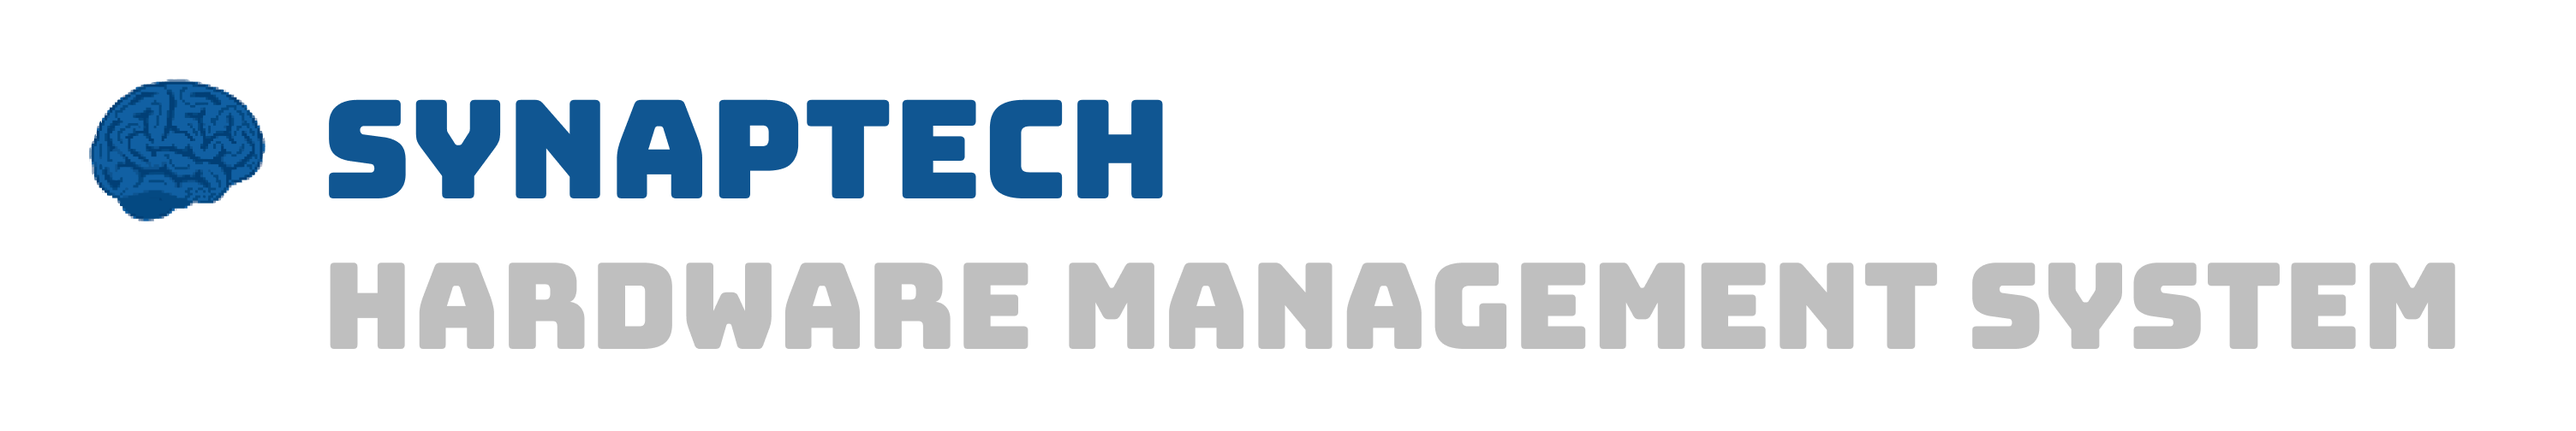
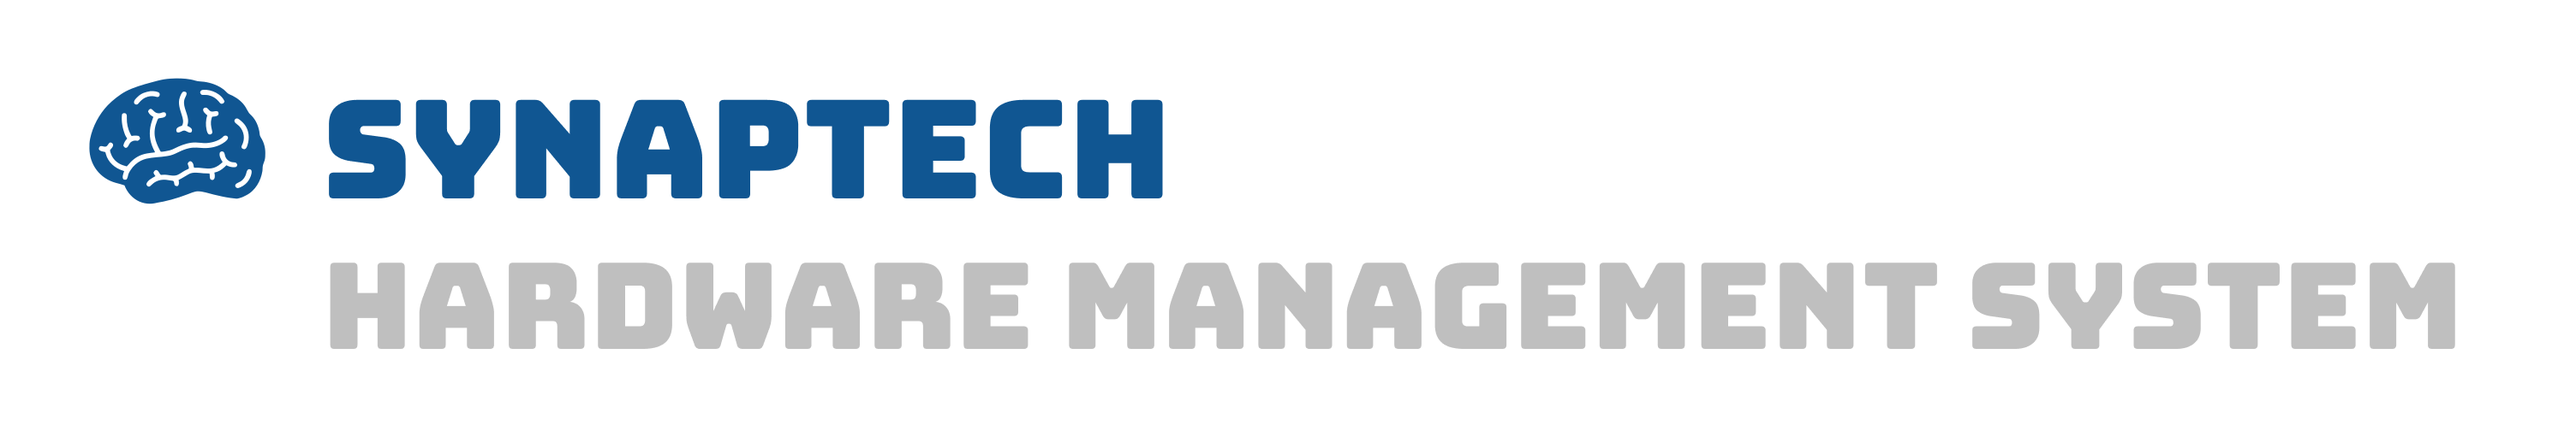
add higher res brain img

Changed region(s): [[0.0312, 0.1786, 0.125, 0.506]]

diff --git a/src/pages/WelcomePage.tsx b/src/pages/WelcomePage.tsx
@@ -3,7 +3,7 @@ import { useAuth } from '../context/AuthContext'
 import ConfirmationModal from '../components/ConfirmationModal'
 import AccountErrorModal from '../components/AccountErrorModal'
 import HardwareCarousel from '../components/HardwareCarousel'
-import brainLogo from '../assets/synaptech-brain.png'
+import brainLogo from '../assets/synaptech-brain.svg'
 import googleIcon from '../assets/google-icon.png'
 import starGlow from '../assets/welcome-star-bg.svg'
 import styles from './WelcomePage.module.css'

diff --git a/src/lib/loanAgreementPdf.ts b/src/lib/loanAgreementPdf.ts
@@ -20,6 +20,8 @@ export function preloadAgreementPdfLib(): void {
     // Retried on use; the failure is reported there.
   })
 }
+// A PNG rasterised from synaptech-brain.svg, because jsPDF's addImage can't
+// embed SVG. Regenerate it from the SVG if the logo changes.
 import brainLogo from '../assets/synaptech-brain.png'
 import bungeeRegularFont from '../assets/fonts/Bungee-Regular.ttf?url'
 import rubikRegularFont from '../assets/fonts/Rubik-Regular.ttf?url'

diff --git a/src/components/admin-dashboard/labels/QrDocLabel.tsx b/src/components/admin-dashboard/labels/QrDocLabel.tsx
@@ -1,4 +1,4 @@
-import brainLogo from '../../../assets/synaptech-brain.png'
+import brainLogo from '../../../assets/synaptech-brain.svg'
 import qrItemDocs from '../../../assets/qr-item-docs.png'
 import qrCheckoutPolicy from '../../../assets/qr-checkout-policy.png'
 import styles from './QrDocLabel.module.css'

diff --git a/src/components/admin-dashboard/labels/SerialBarcodeLabel.tsx b/src/components/admin-dashboard/labels/SerialBarcodeLabel.tsx
@@ -1,4 +1,4 @@
-import brainLogo from '../../../assets/synaptech-brain.png'
+import brainLogo from '../../../assets/synaptech-brain.svg'
 import { encodeCode128B } from '../../../lib/code128'
 import styles from './SerialBarcodeLabel.module.css'
 

diff --git a/src/components/user-dashboard/AgreementPreview.tsx b/src/components/user-dashboard/AgreementPreview.tsx
@@ -1,4 +1,4 @@
-import brainLogo from '../../assets/synaptech-brain.png'
+import brainLogo from '../../assets/synaptech-brain.svg'
 import {
   AGREEMENT_INTRO_PARAGRAPHS,
   AGREEMENT_SIGNATURE_DISCLAIMER,

diff --git a/src/components/BrandWordmark.tsx b/src/components/BrandWordmark.tsx
@@ -1,4 +1,4 @@
-import brainLogo from '../assets/synaptech-brain.png'
+import brainLogo from '../assets/synaptech-brain.svg'
 import styles from './BrandWordmark.module.css'
 
 const MUTED_FROM_CLASS = {
